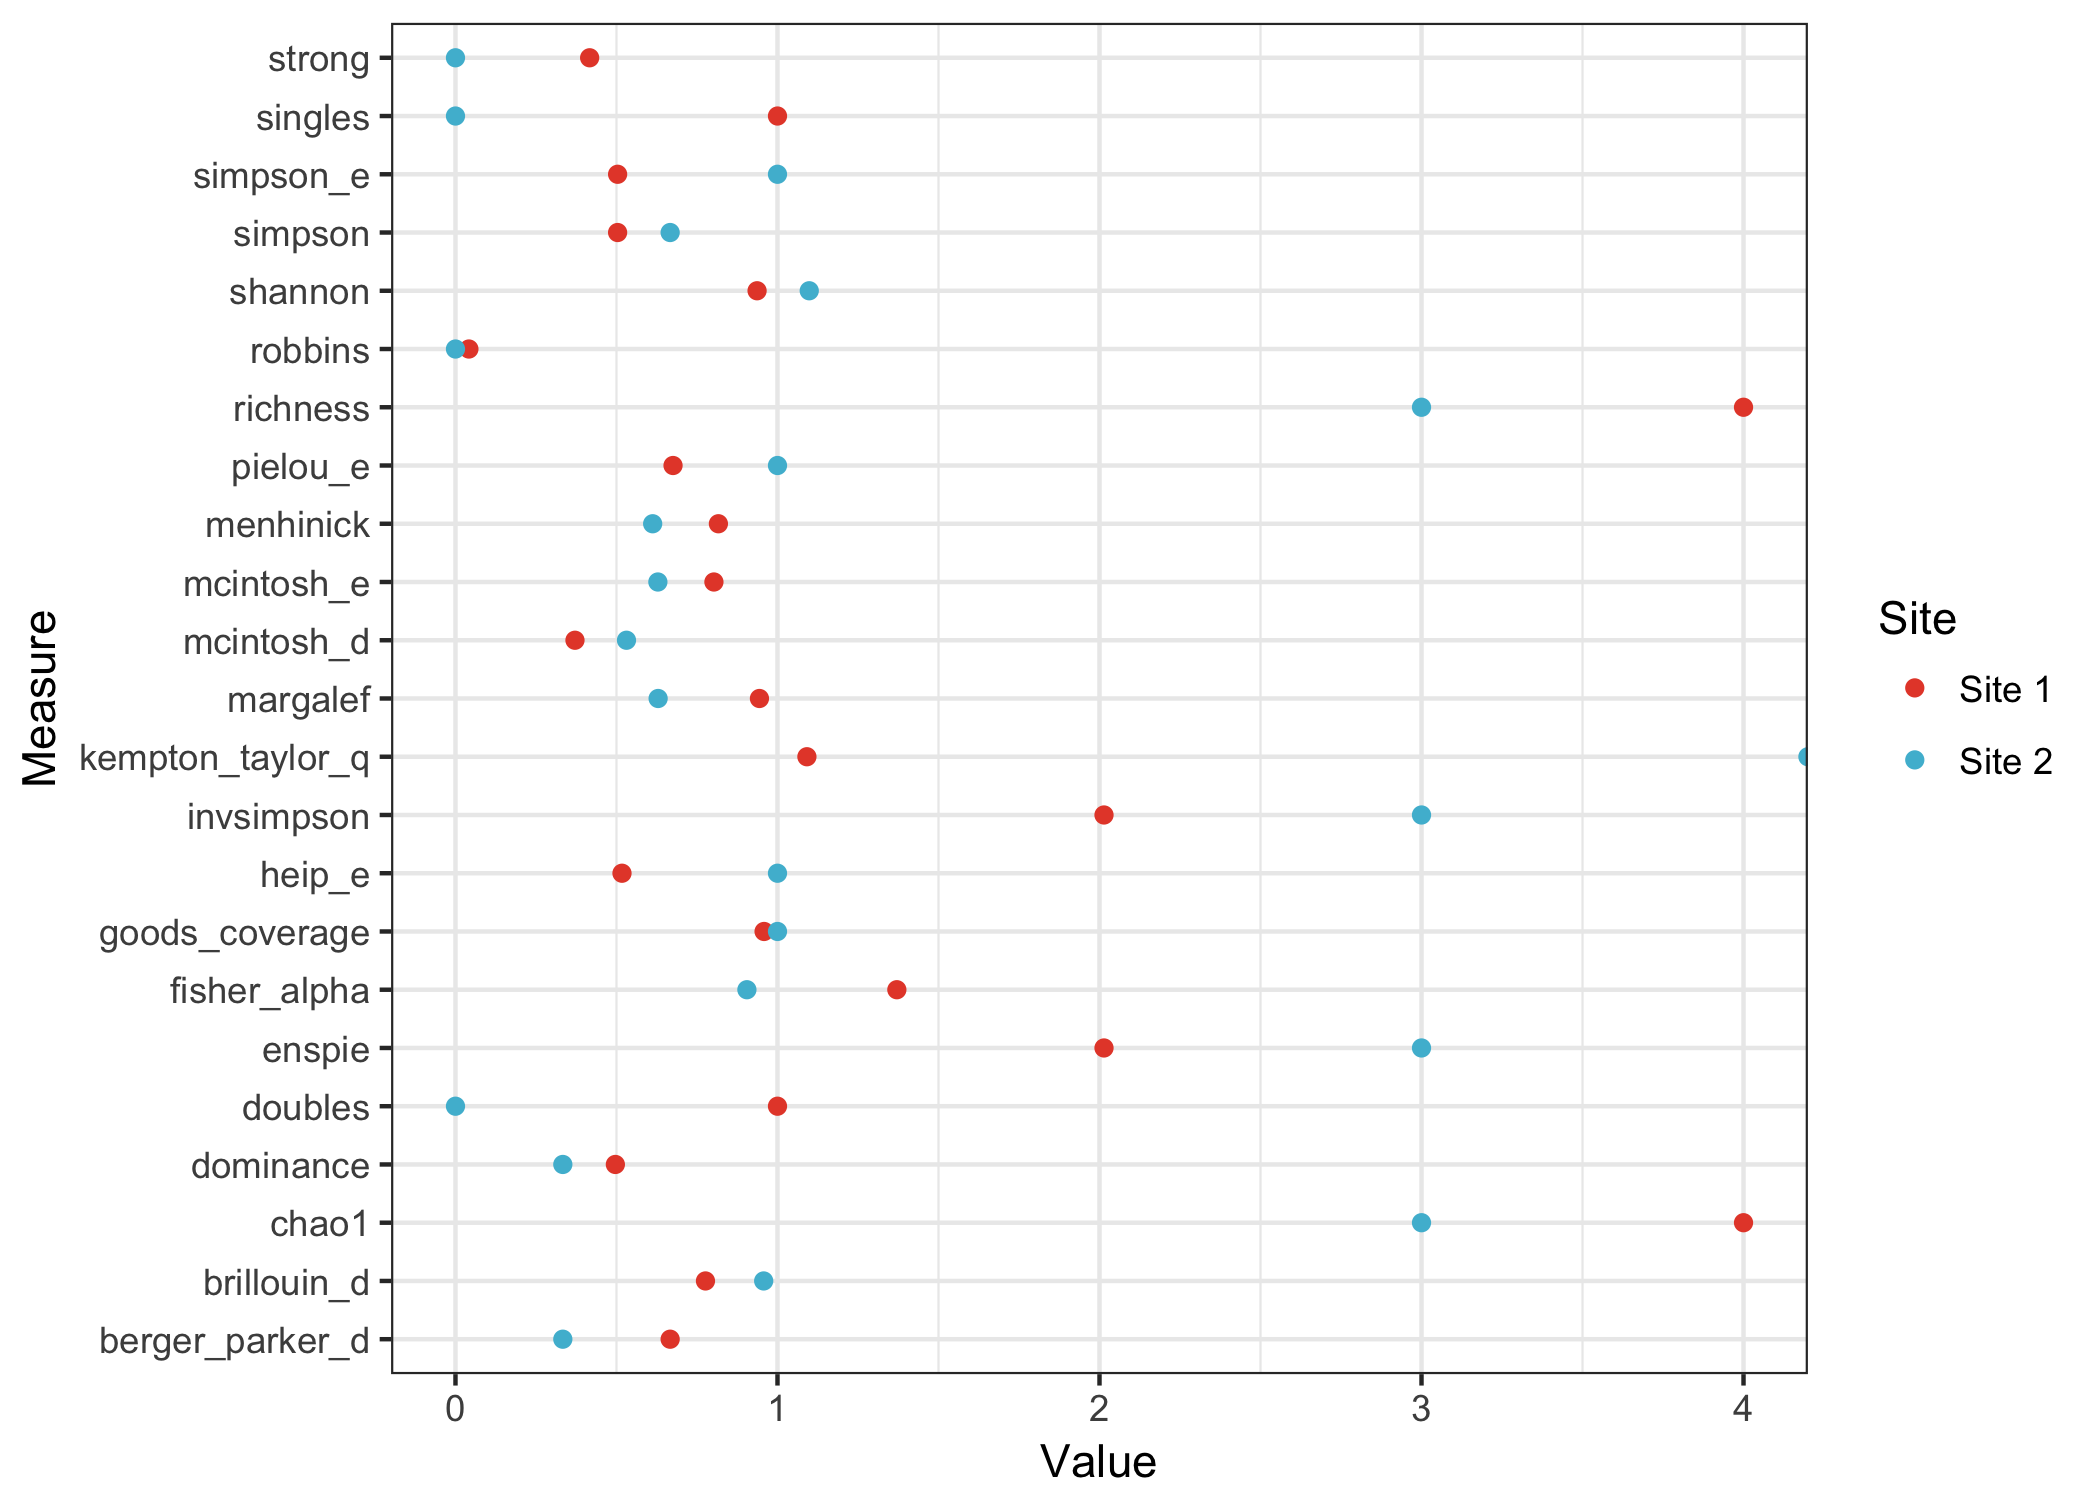
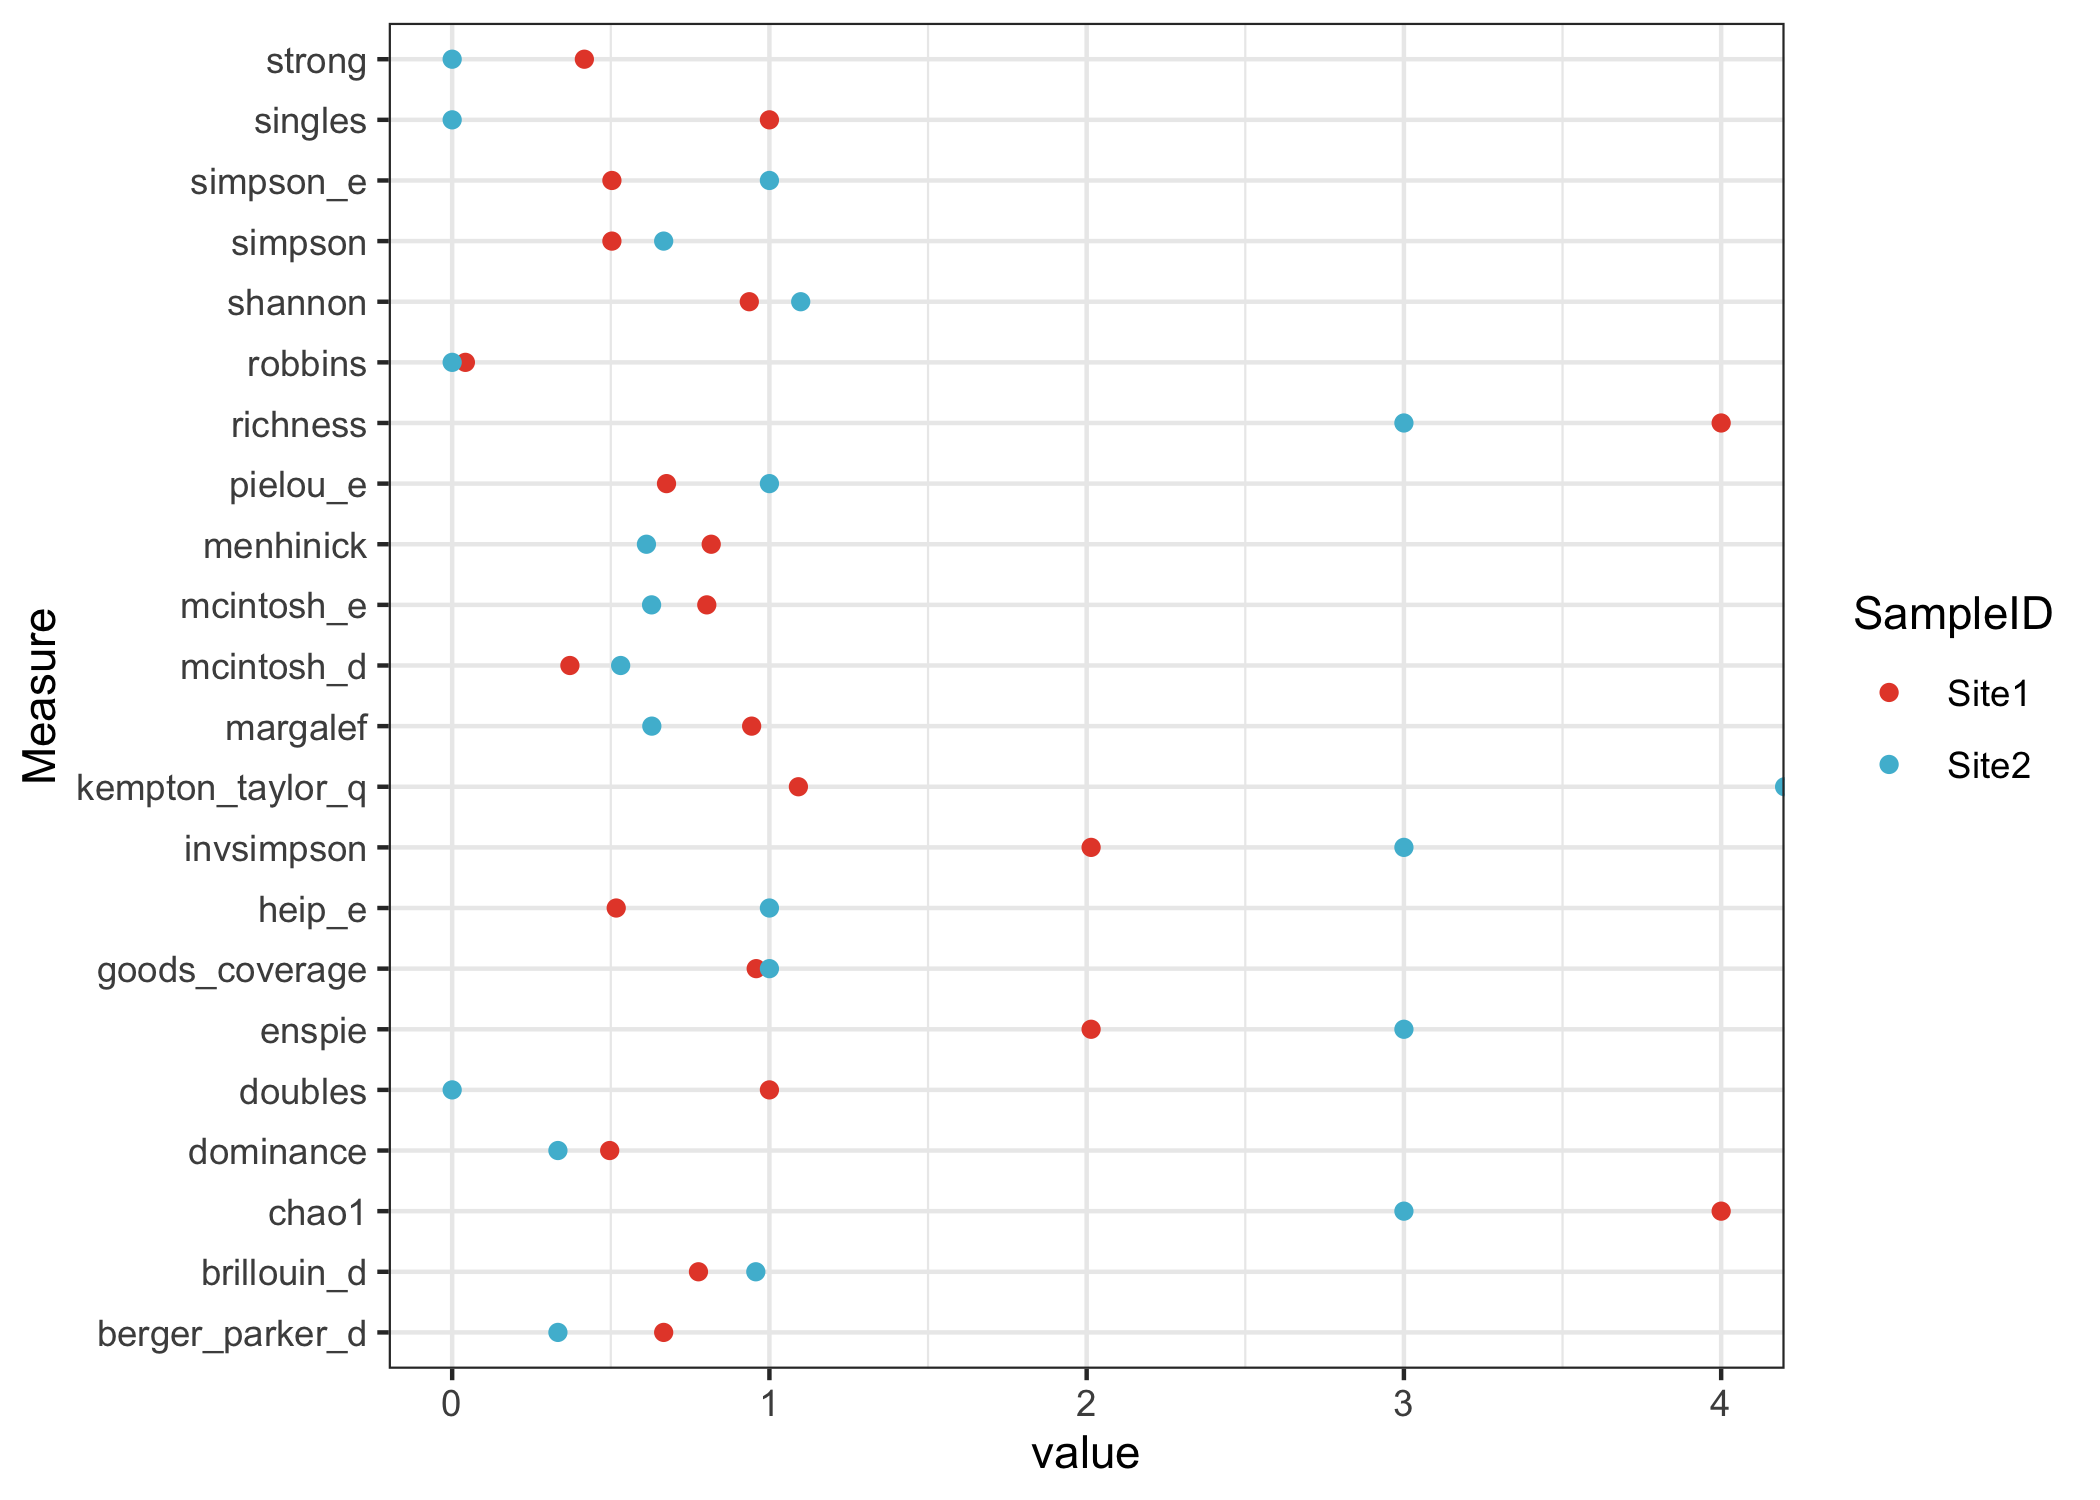
Update pivoting utility functions and README

Changed region(s): [[0.0, 0.0307, 0.9905, 0.9813]]

diff --git a/README.md b/README.md
@@ -1,12 +1,13 @@
 
 <!-- README.md is generated from README.Rmd. Please edit that file -->
-ecofuncs
-========
 
-This package re-implements measures of ecological diversity from several other software packages, including `vegan`, `scikit-bio`, and `GUniFrac`.
+# ecofuncs
 
-Installation
-------------
+This package re-implements measures of ecological diversity from several
+other software packages, including `vegan`, `scikit-bio`, and
+`GUniFrac`.
+
+## Installation
 
 You can install ecofuncs from github with:
 
@@ -15,17 +16,23 @@ You can install ecofuncs from github with:
 devtools::install_github("kylebittinger/ecofuncs")
 ```
 
-Example
--------
+## Example
 
-Let's say we've surveyed a field and counted the number of plants in each of two sites. We've found five species in total, and we'd like to summarize the diversity of the two sampling sites. Here are the results for site 1 and site 2, represented as vectors.
+Let’s say we’ve surveyed a field and counted the number of plants in
+each of two sites. We’ve found five species in total, and we’d like to
+summarize the diversity of the two sampling sites. Here are the results
+for site 1 and site 2, represented as vectors.
 
 ``` r
 s1 <- c(2, 5, 16, 0, 1)
 s2 <- c(0, 0, 8, 8, 8)
 ```
 
-The two sites have about the same number of total plants, but the ditsribution of species is much different. More than half the plants in site 1 belong to a single species, whereas the plants in site 2 are almost evenly distributed across three different species. To get started, let's look at a few measures of diversity for each sample.
+The two sites have about the same number of total plants, but the
+ditsribution of species is much different. More than half the plants in
+site 1 belong to a single species, whereas the plants in site 2 are
+almost evenly distributed across three different species. To get
+started, let’s look at a few measures of diversity for each sample.
 
 Richness measures the total number of species in each sample.
 
@@ -36,7 +43,9 @@ richness(s2)
 #> [1] 3
 ```
 
-The Shannon index measures both the number of species and the evenness of their distribution. Site 2 has fewer species, but they're distributed more evenly, so the Shannon index is higher.
+The Shannon index measures both the number of species and the evenness
+of the relative abundance values. Site 2 has fewer species, but each
+species has the same relative abundance, so the Shannon index is higher.
 
 ``` r
 shannon(s1)
@@ -45,81 +54,78 @@ shannon(s2)
 #> [1] 1.098612
 ```
 
-Let's summarize the diversity of site 1 and site 2 using all the functions available in this library. The full set of within-sample diversity functions is available as a character vector in `ecofuncs_alpha`. First, we'll make a nice, tidy data frame called `site_df`.
+Let’s summarize the diversity of site 1 and site 2 using all the
+functions available in this library. The full set of within-sample
+diversity functions is available as a character vector in
+`alpha_diversities`. The term “\(\alpha\)-diversity” means the diversity
+within a single sample.
 
 ``` r
 library(tidyverse)
-site_df <- data_frame(
-  Species = rep(LETTERS[1:5], 2),
-  Site = rep(c("Site 1", "Site 2"), each=5),
-  Counts = c(s1, s2))
-site_df
-#> # A tibble: 10 x 3
-#>    Species Site   Counts
-#>    <chr>   <chr>   <dbl>
-#>  1 A       Site 1      2
-#>  2 B       Site 1      5
-#>  3 C       Site 1     16
-#>  4 D       Site 1      0
-#>  5 E       Site 1      1
-#>  6 A       Site 2      0
-#>  7 B       Site 2      0
-#>  8 C       Site 2      8
-#>  9 D       Site 2      8
-#> 10 E       Site 2      8
-```
-
-With our data frame in hand, we'll use the `summarize_at` function in `dplyr` to run all the diversity functions for each site.
-
-``` r
-site_df %>%
-  group_by(Site) %>%
-  summarize_at(vars(Counts), funs_(ecofuncs_alpha)) %>%
-  gather(Measure, Value, -Site) %>%
-  ggplot(aes(x=Measure, y=Value, color=Site)) +
+tibble(Measure = alpha_diversities) %>%
+  group_by(Measure) %>%
+  summarize(Site1 = get(Measure)(s1), Site2 = get(Measure)(s2)) %>%
+  pivot_longer(-Measure, "SampleID") %>%
+  ggplot(aes(x=Measure, y=value, color=SampleID)) +
   geom_point() +
   scale_color_manual(values=c("#E64B35", "#4DBBD5")) +
   coord_flip() +
   theme_bw()
 ```
 
-![](README-files/README-alpha-diversity-1.png)
+![](README-files/README-alpha-diversity-1.png)<!-- -->
 
-We can see that site 1 is regarded as more diverse by some measures; it has the most species. For other measures, site 2 is regarded as more diverse; it has the most even distribution of species.
+We can see that site 1 is regarded as more diverse by some measures; it
+has the most species. For other measures, site 2 is regarded as more
+diverse; it has the most even distribution of species.
 
-The definition of functions and links to other software packages can be found in the documentation.
+In our documentation, you can find more info on each
+\(\alpha\)-diversity function.
 
-Having assessed the within-sample diversity, we can next ask about the number of shared species between sites. If species are shared, how similar is the distribution across species? There are many ways to quantify this between-site diversity or *β*-diversity.
+Having assessed the within-sample diversity, we can next ask about the
+number of shared species between sites. If species are shared, how
+similar is the distribution across species? There are many ways to
+quantify this between-sample diversity or \(\beta\)-diversity.
 
-We can view *β*-diversity as either the similarity or dissimilarity between sites. The functions in `ecofuncs` are written in terms of dissimilarity: similar sites will have values close to zero, and highly dissimilar sites will have values close to the maximum.
+We can view \(\beta\)-diversity as either the similarity or
+dissimilarity between sites. The functions in `ecofuncs` are written in
+terms of dissimilarity: similar sites will have values close to zero,
+and highly dissimilar sites will have values close to the maximum.
 
-The Jaccard distance counts the fraction of species present in only one site. The answer is 3 out of 5, or 0.6.
+The Jaccard distance counts the fraction of species present in only one
+site. The answer is 3 out of 5, or 0.6.
 
 ``` r
 jaccard(s1, s2)
 #> [1] 0.6
 ```
 
-The Bray-Curtis dissimilarity adds up the absolute differences between species counts, then divides by the total counts. For our two sites, that's (2 + 5 + 8 + 8 + 7)/48, or 0.625.
+The Bray-Curtis dissimilarity adds up the absolute differences between
+species counts, then divides by the total counts. For our two sites,
+that’s (2 + 5 + 8 + 8 + 7) / 48, or 0.625.
 
 ``` r
 bray_curtis(s1, s2)
 #> [1] 0.625
 ```
 
-Again, we'll use a vector called `ecofuncs_beta` to compute every dissimilarity measure in the library.
+Again, we’ll use a vector called `beta_diversities` to compute every
+dissimilarity measure in the library.
 
 ``` r
-data_frame(Measure = ecofuncs_beta) %>%
+tibble(Measure = beta_diversities) %>%
   group_by(Measure) %>%
-  mutate(Value = get(Measure)(s1, s2)) %>%
-  ggplot(aes(x=Measure, y=Value)) +
+  mutate(value = get(Measure)(s1, s2)) %>%
+  ggplot(aes(x=Measure, y=value)) +
   geom_point(color="#4DBBD5") +
   scale_y_log10() +
   coord_flip() +
   theme_bw()
+#> Warning: Removed 1 rows containing missing values (geom_point).
 ```
 
-![](README-files/README-beta-diversity-1.png)
+![](README-files/README-beta-diversity-1.png)<!-- -->
 
-The dissimilarities are generally positive, and they have a range of scales. Some dissimilarity measures range from 0 to 1, while others can go up indefinitely.
+The dissimilarities are generally positive, and they have a range of
+scales. Some dissimilarity measures range from 0 to 1, while others can
+go up indefinitely.
